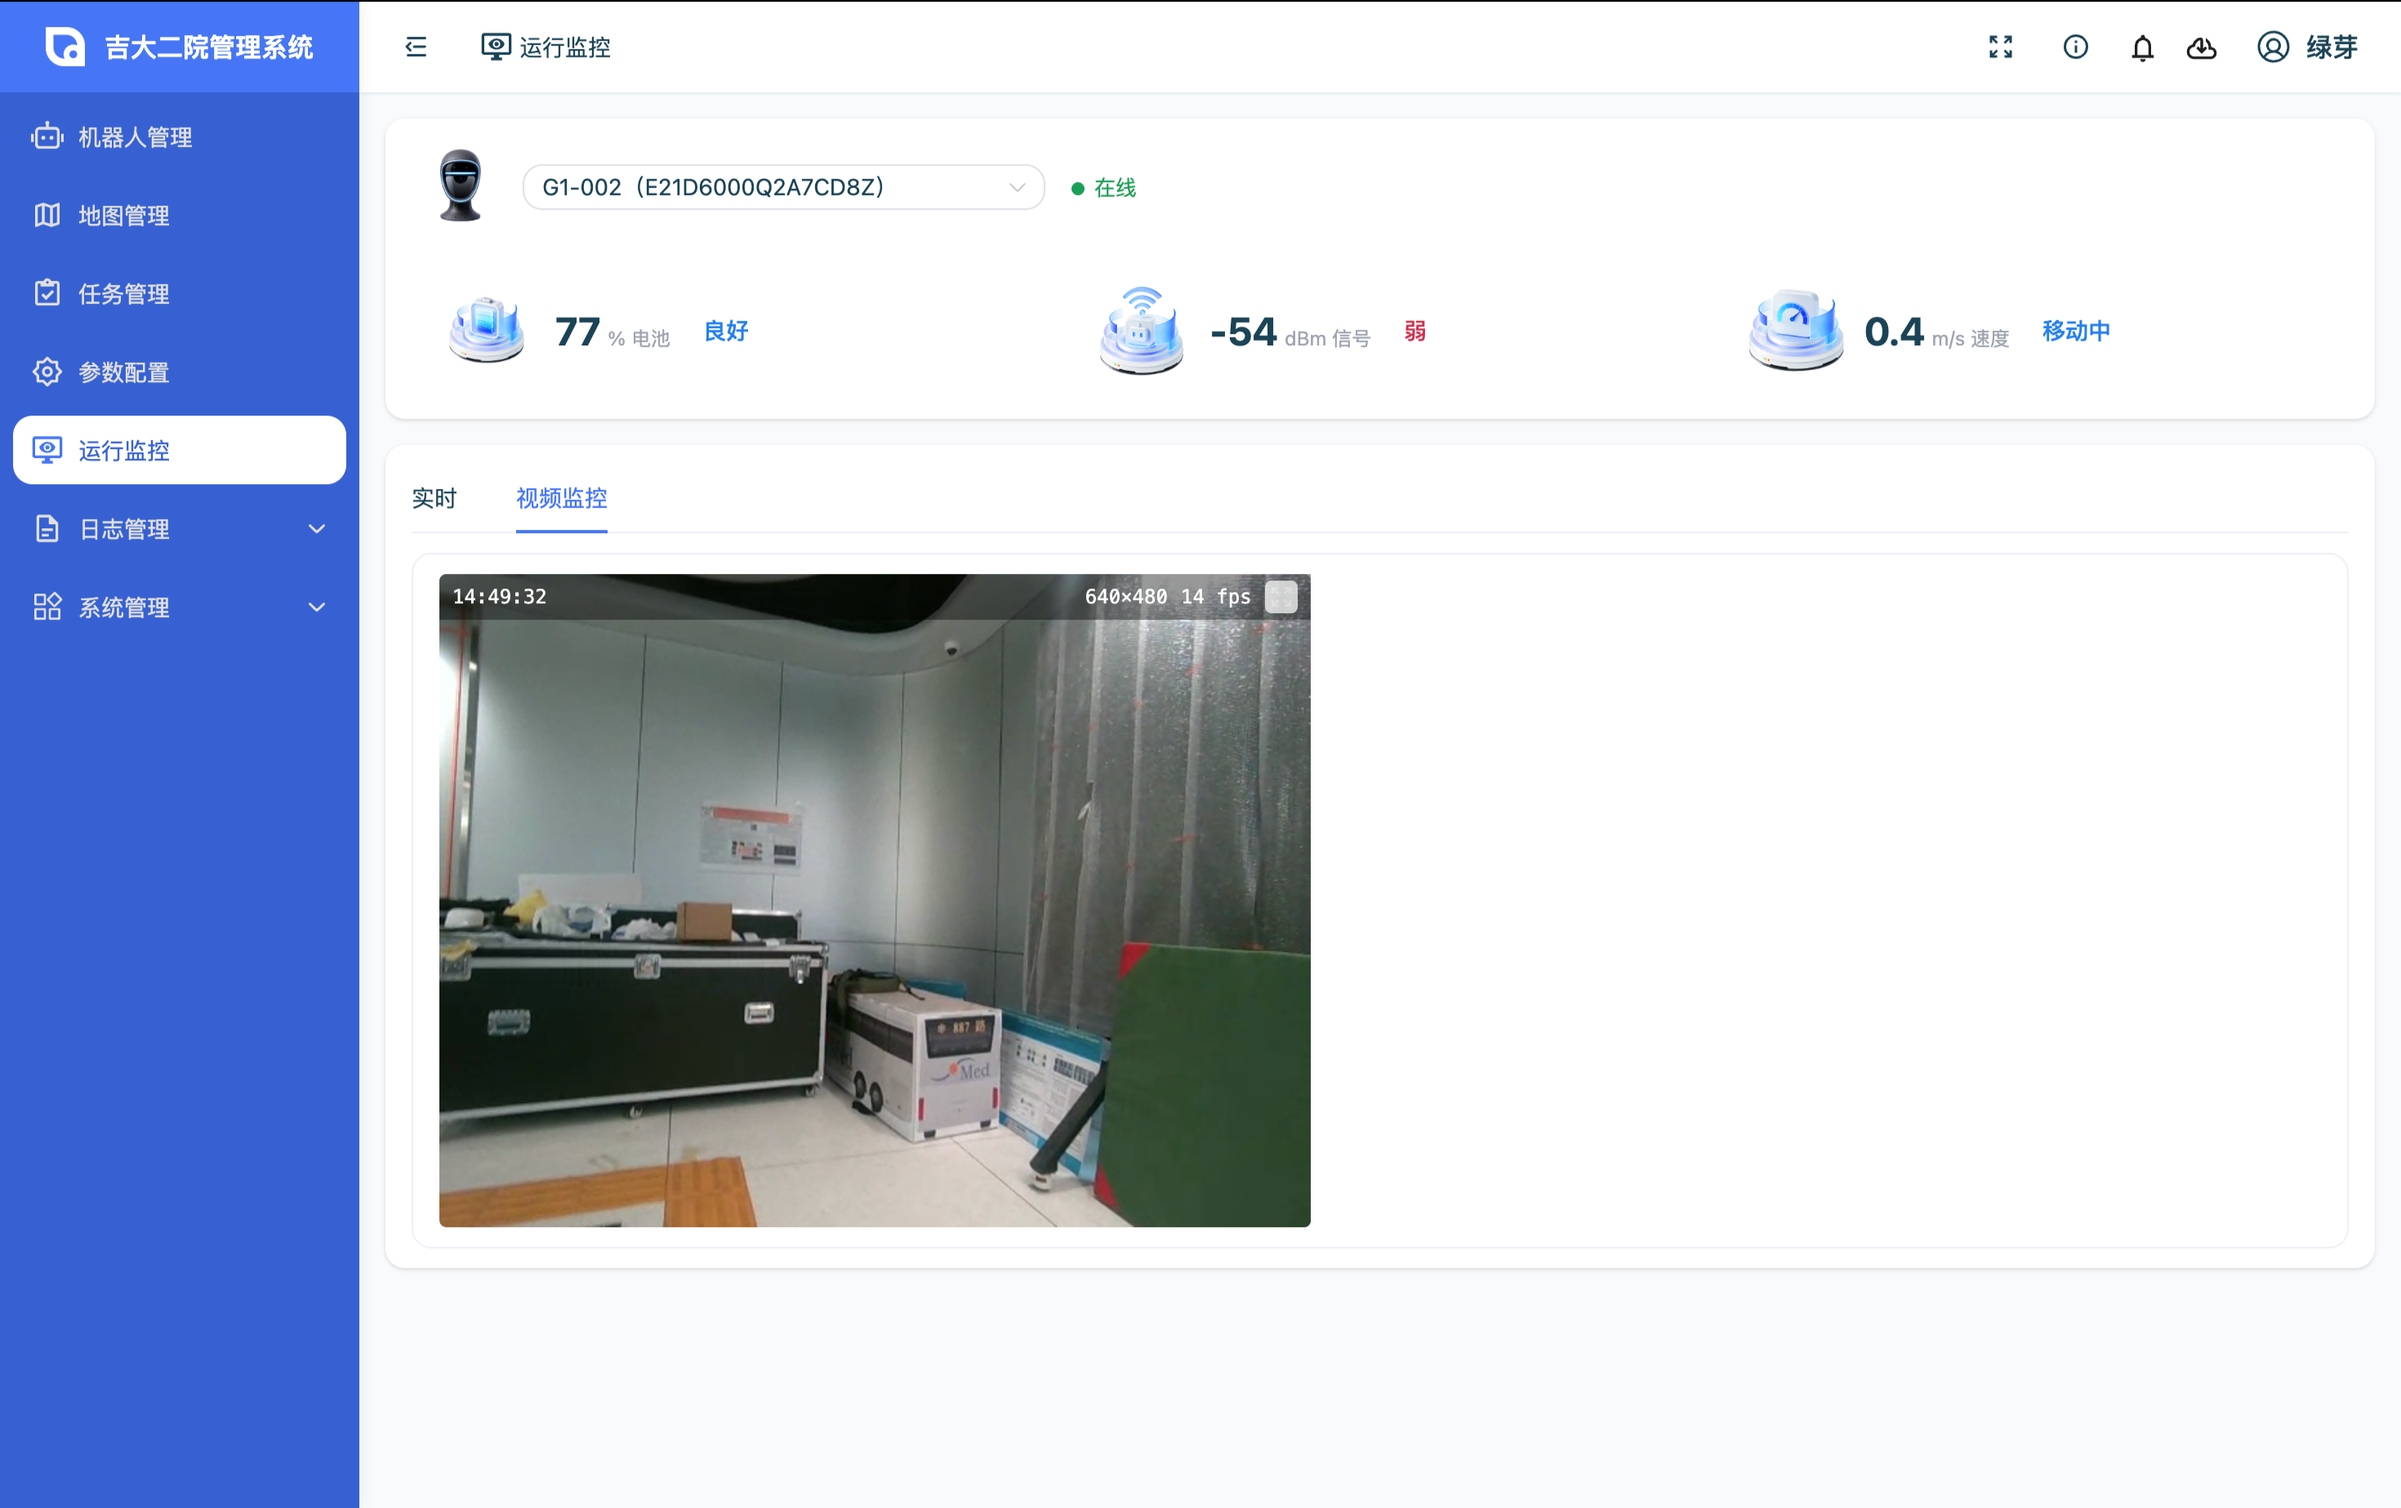
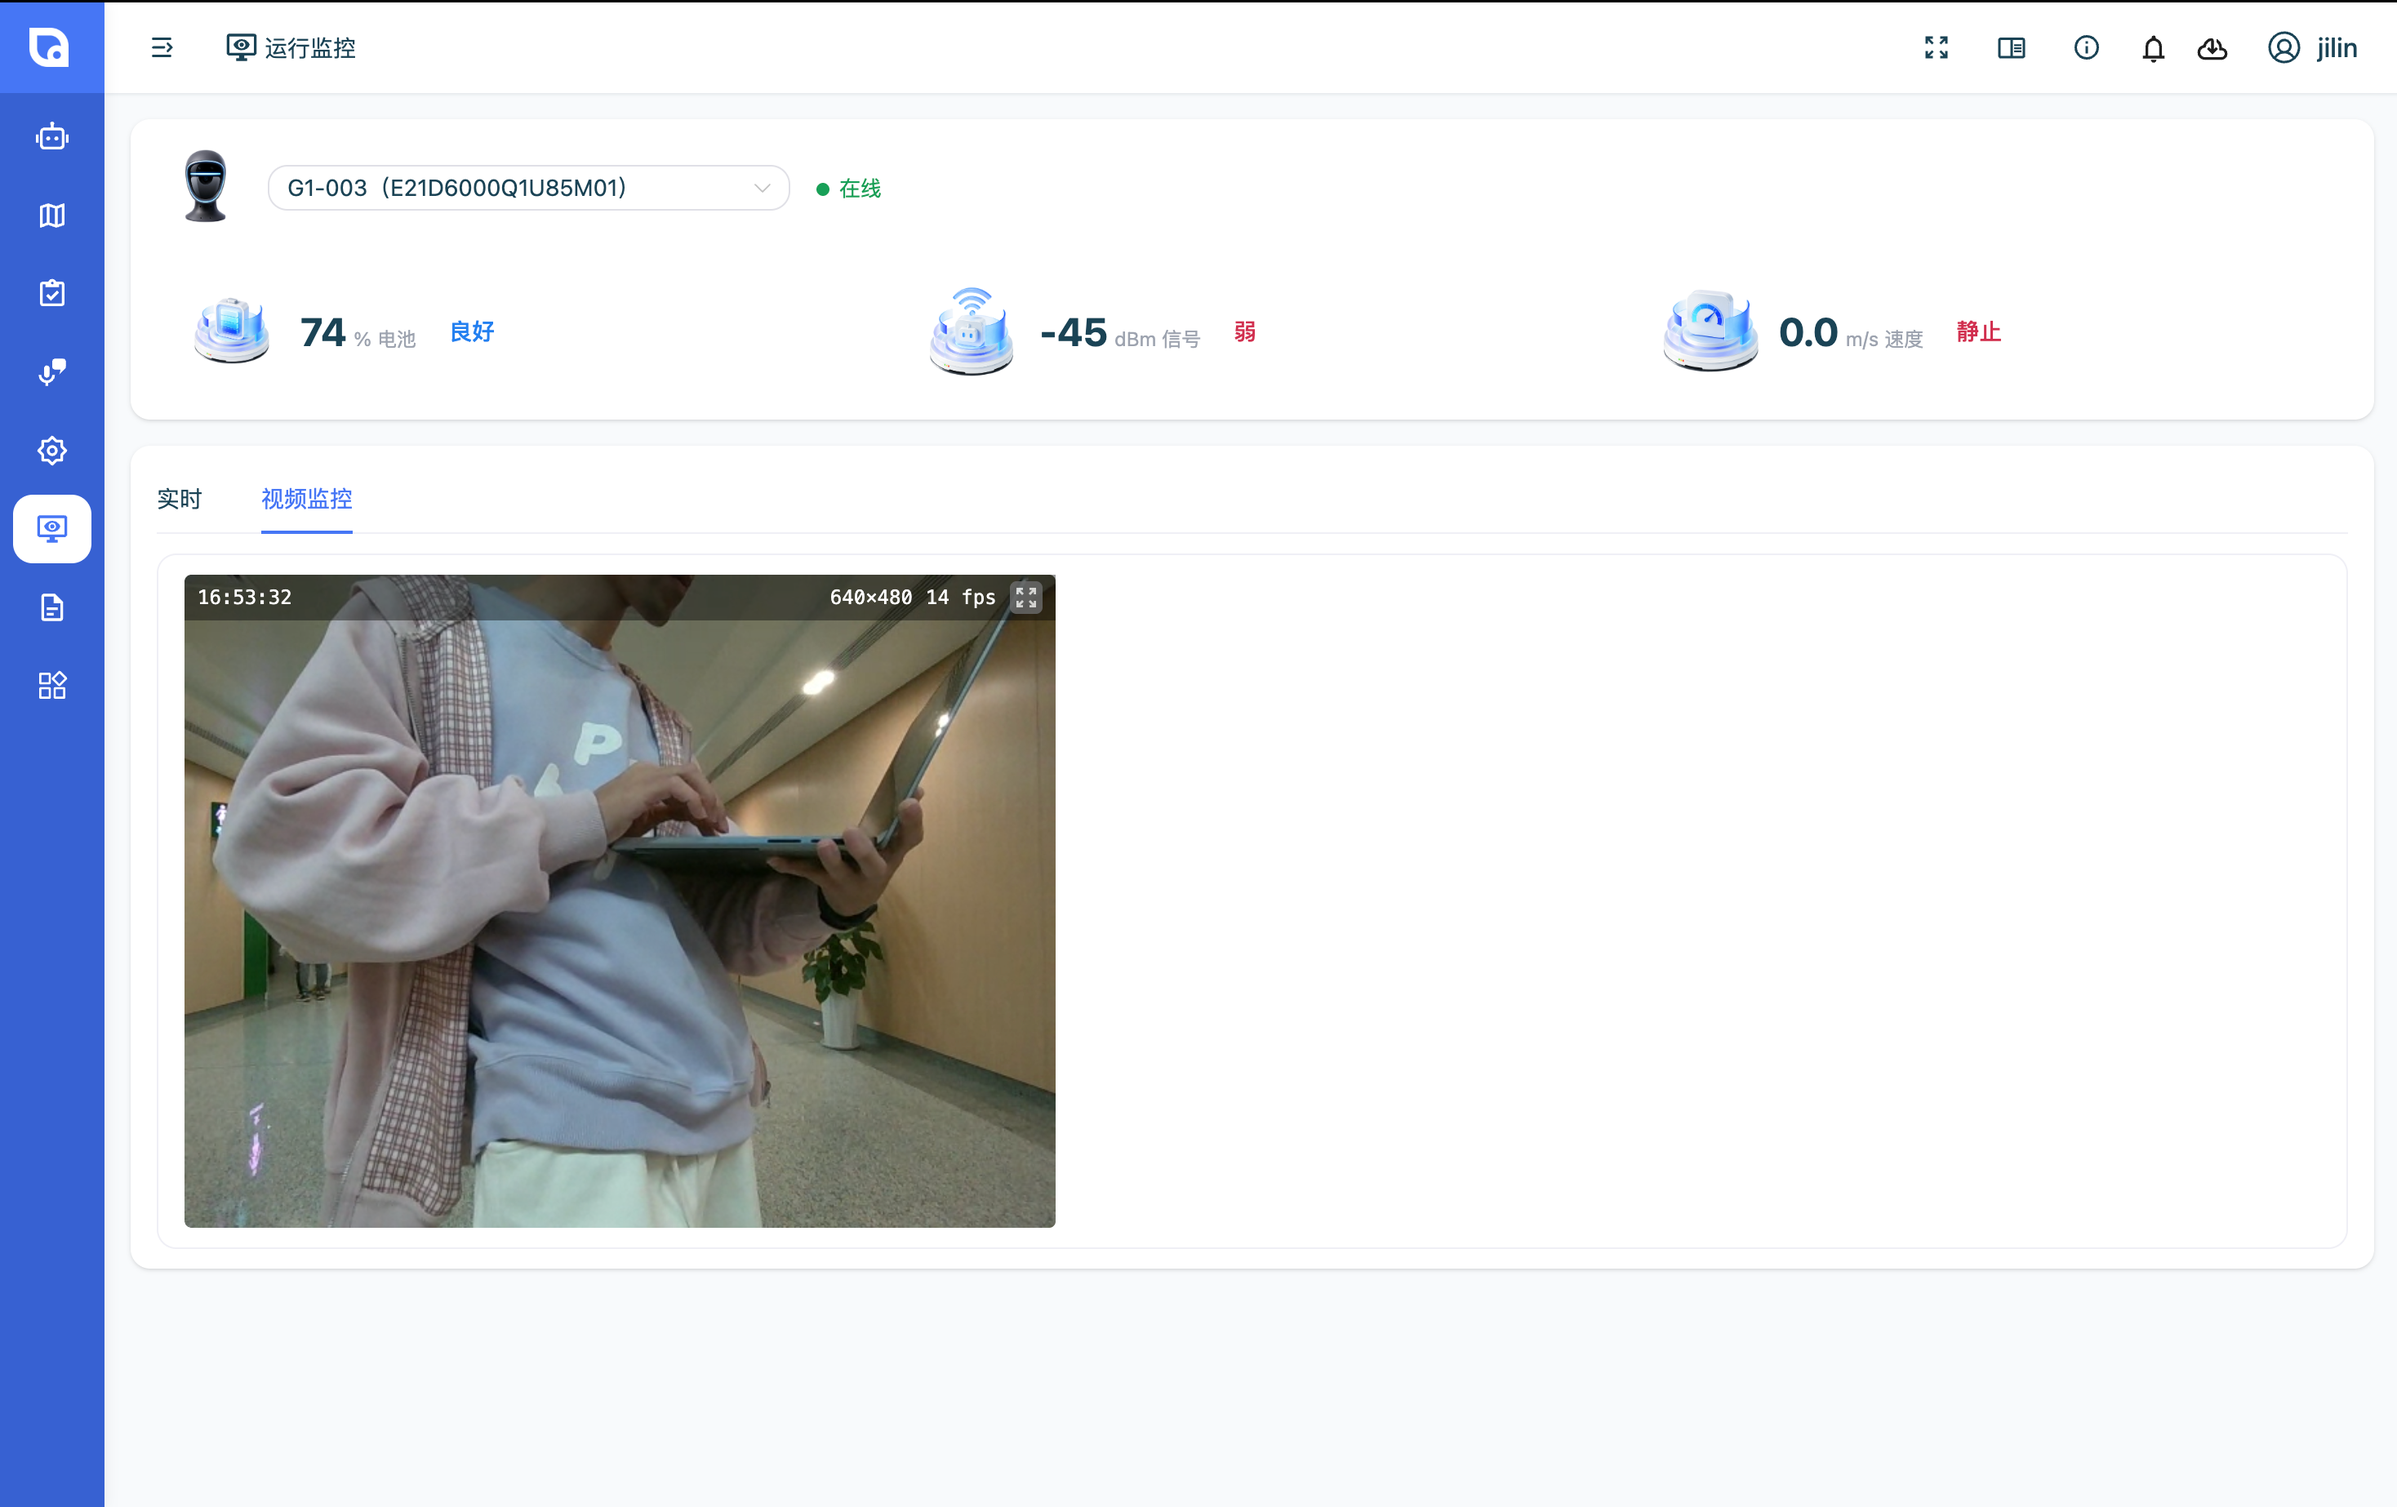
fix：用户手册

diff --git a/frontend/src/assets/manual-files/机器人管理系统用户手册.md b/frontend/src/assets/manual-files/机器人管理系统用户手册.md
@@ -1,4 +1,4 @@
-# 机器人管理系统用户手册
+# 机器人管理系统用户手册
 
 ## 一、平台概述
 
@@ -265,7 +265,8 @@
 
 | 配置项 | 操作说明 |
 |-------|---------|
-| 唤醒词 | 1. 输入4-6个中文字符作为唤醒词。<br/>2. 点击「测试」可试听机器人响应。<br/>3. 点击「保存」后，约需1分钟生效。<br/>4. 开启「免唤醒」开关后，机器人检测到人脸即可直接交互。 |
+| 唤醒词 | 1. 输入4-6个中文字符作为唤醒词。<br/>2. 点击「测试」可试听机器人响应。<br/>3. 点击「保存」后，约需1分钟生效。<br/>4. 开启「免唤醒」开关后，机器人检测到人脸即可直接交互。<br/>5. 回复方式 <br/>（1）配置语料：使用固定模板回复，预览可查看效果；模板不可编辑。<br/>（2）调用大模型：唤醒后由大模型生成自定义回复。<br/>（3）测试回复：预览唤醒回复效果。
+|
 | 语音合成 | 调节机器人的音色（男/女）、语速（0.5x-2.0x）和音量（0%-100%），支持「测试语音」试听。 |
 | 人脸识别TTS | 上传人员照片并配置识别成功后的播报内容。保存后，机器人识别到该名人员后播报该指定内容。 |
 | 行走速度 | 为机器人选择速度等级：低速（≤0.5m/s）、慢速（≤0.25m/s）。 |
@@ -280,8 +281,6 @@
 ![image\.png](图片和附件/image%2021.png)
 
 ![image\.png](图片和附件/image%204.png)
-
-
 
 
 
